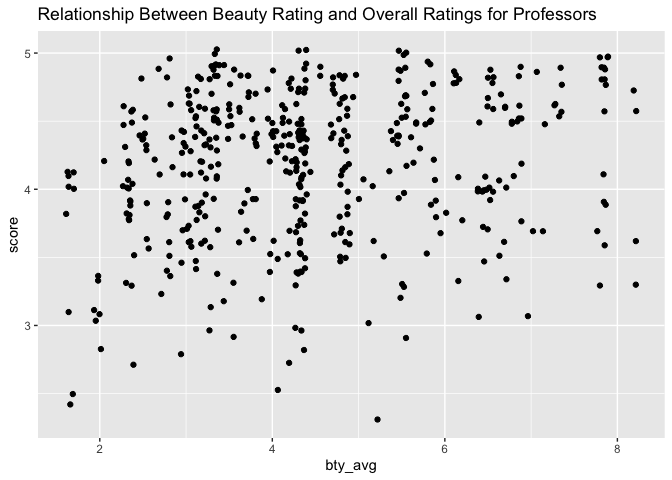
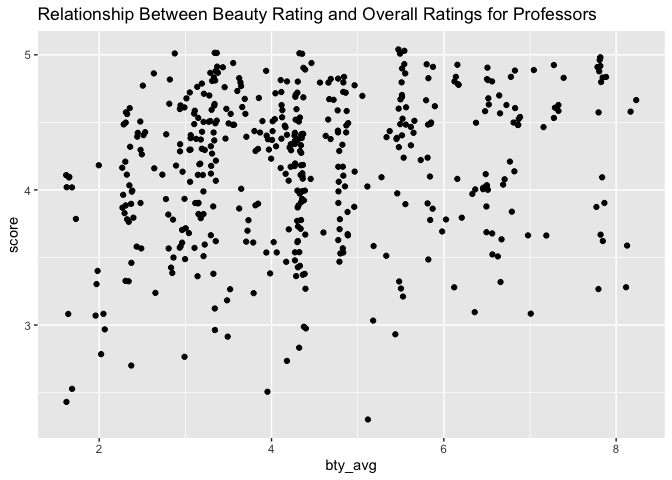
789

diff --git a/lab-09.md b/lab-09.md
@@ -11,7 +11,7 @@ library(tidymodels)
 library(openintro)
 ```
 
-## Exercise 1
+## Exercise 1 Getting to know the data
 
 ``` r
 data <- evals
@@ -50,7 +50,7 @@ expected. Students rated on 463 courses taught by 94 professors, so I
 expected this variance. I think an average of 4.18 is fair and pretty
 good.
 
-## Exercise 2
+## Exercise 2 Visual
 
 ``` r
 data %>% 
@@ -66,7 +66,7 @@ think there is a positive relationship between score and beauty rating.
 However, it’s not very clear. There could be no relationship too because
 the dots are pretty scattered all over the place.
 
-### Exercise 3
+### Exercise 3 Visual improve
 
 ``` r
 data %>% 
@@ -84,14 +84,13 @@ the first graph might be misleading because we can’t see all the data as
 they were stacked on top of each other. However, I made the dots
 transparent, so I still retained this information.
 
-### Exercise 4
+### Exercise 4 Beauty model
 
 ``` r
 m_bty <- linear_reg() %>% 
   set_engine("lm") %>% 
-  fit(score ~ bty_avg, data = data) %>% 
-  tidy()
-m_bty
+  fit(score ~ bty_avg, data = data)
+tidy(m_bty)
 ```
 
     ## # A tibble: 2 × 5
@@ -103,23 +102,96 @@ m_bty
 From the output table, the linear model will be: score = 3.88 +
 0.067(bty_avg)
 
-### Exercise 5
+### Exercise 5 Visual with regression line
 
 ``` r
 data %>% 
   ggplot(aes(x = bty_avg, y = score)) + geom_jitter() + geom_smooth(method = "lm", se = FALSE) + 
   labs(title = "Relationship Between Beauty Rating and Overall Ratings for Professors",
        x = "Average Beauty Rating",
-       y = "Score")
+       y = "Average Professor Evaluation")
 ```
 
 ![](lab-09_files/figure-gfm/replot-1.png)<!-- -->
 
-### Exercise 6
+### Exercise 6 Interpreting the slope
 
-The slope of the linear model is 0.0666. This means that with one unit
-increase in average beauty rating, there will be a 0.0666 unit increase
-in the average professor evaluation.
+Looking at the table from exercise 4, the slope of the linear model is
+0.0666. This means that with one unit increase in average beauty rating,
+there will be a 0.0666 unit increase in the average professor
+evaluation.
+
+### Exercise 7 Interpreting the intercept
+
+Again, looking at the table from exercise 4, the intercept is 3.88. This
+means that when there is a 0 for the average beauty rating for a
+professor, the average professor evaluation (score) is 3.88.
+Theoretically, this makes sense. However, in the context of this data,
+the intercept doesn’t make sense. I checked the description of this
+data. The beauty ratings are from 1-10. Thus, there wouldn’t be a 0 for
+the average beauty rating.
+
+### Exercise 8 Interpreting R^2
+
+``` r
+glance(m_bty)
+```
+
+    ## # A tibble: 1 × 12
+    ##   r.squared adj.r.squared sigma statistic   p.value    df logLik   AIC   BIC
+    ##       <dbl>         <dbl> <dbl>     <dbl>     <dbl> <dbl>  <dbl> <dbl> <dbl>
+    ## 1    0.0350        0.0329 0.535      16.7 0.0000508     1  -366.  738.  751.
+    ## # ℹ 3 more variables: deviance <dbl>, df.residual <int>, nobs <int>
+
+The R^2 is 0.035. Sine we only have one predictor, I just looked at the
+R^2, and not the adjusted R^2. This means that the average beauty rating
+explained 3.5% of the variance in the average professor evaluation.
+
+### Exercise 9 Gender model and interpretation
+
+``` r
+m_gen <- linear_reg() %>% 
+  set_engine("lm") %>% 
+  fit(score ~ gender, data = data)
+tidy(m_gen)
+```
+
+    ## # A tibble: 2 × 5
+    ##   term        estimate std.error statistic p.value
+    ##   <chr>          <dbl>     <dbl>     <dbl>   <dbl>
+    ## 1 (Intercept)    4.09     0.0387    106.   0      
+    ## 2 gendermale     0.142    0.0508      2.78 0.00558
+
+The linear model:  
+y = 4.093 + 0.142x  
+Score = 4.093 + 0.142(gender)  
+The slope is 0.142. This means that with one unit increase in gender,
+the score increases by 0.142 unit. However, I cannot tell from the data
+the numeric representation for each gender. The intercept is 4.093. This
+means that when the gender is 0, the average professor evaluation score
+is 4.093.  
+I am curious to find out which gender is represented by 0. Let’s
+calculate the mean score for each gender.
+
+``` r
+data %>% 
+  group_by(gender) %>% 
+  summarise(mean_score = mean(score, na.rm = TRUE))
+```
+
+    ## # A tibble: 2 × 2
+    ##   gender mean_score
+    ##   <fct>       <dbl>
+    ## 1 female       4.09
+    ## 2 male         4.23
+
+As we see from the table, females have an average score of 4.0928. This
+tells me that females are denoted as 0, and males as 1. Now let’s
+interpret the slope and intercept once again with this information in
+mind. We have an intercept of 4.093. This means that females had an
+average of 4.093 in score. Males, on average, had a 0.142 higher score
+in rating than females. The 0 here makes sense in the context of the
+data.
 
 ## Hint
 
